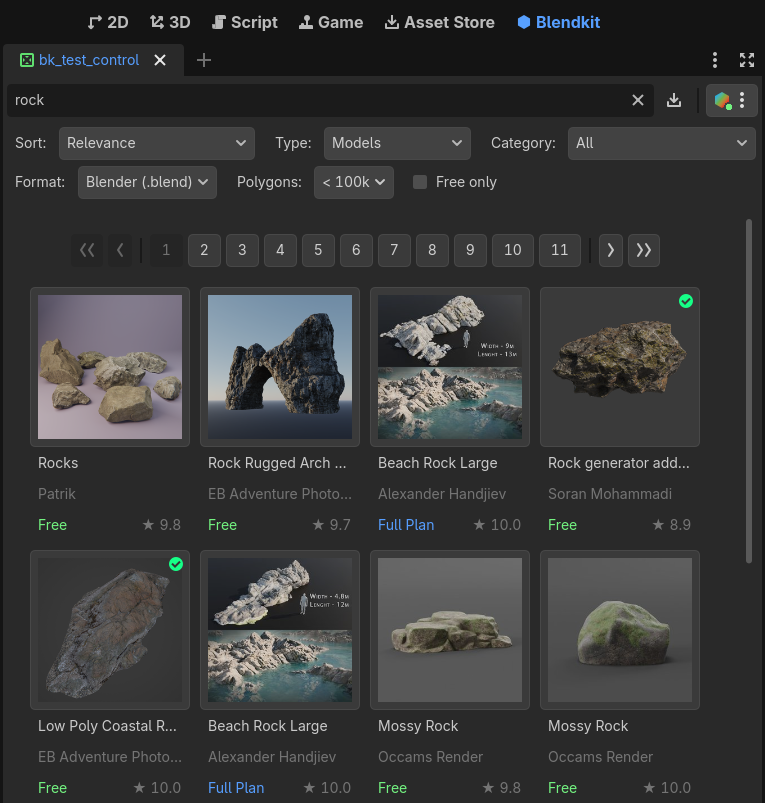
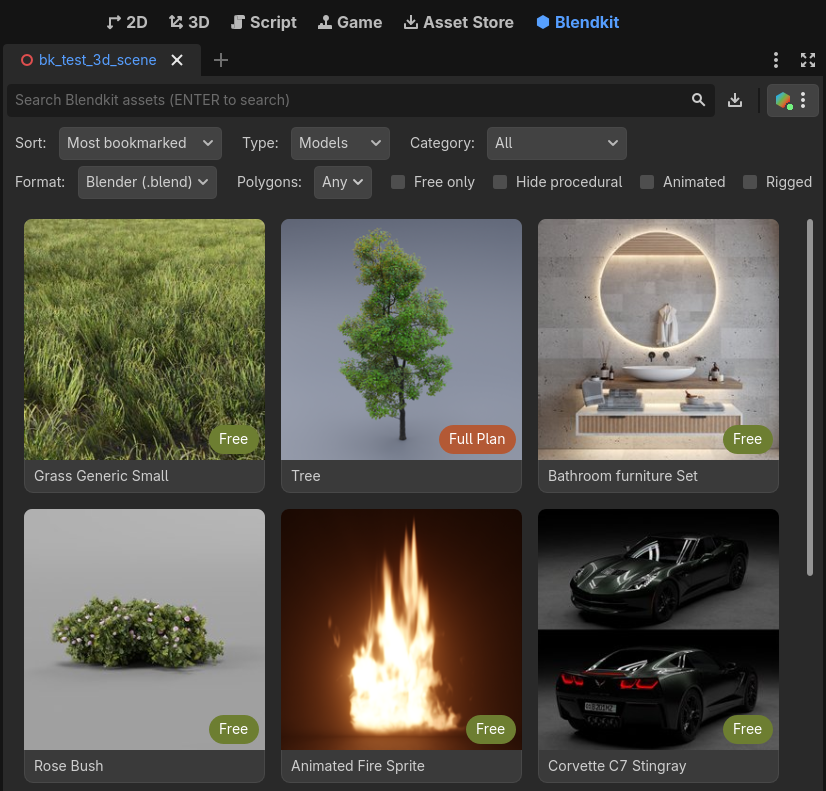
Release 0.7.1

diff --git a/README.md b/README.md
@@ -13,16 +13,13 @@
 # About
 
 Search the [Blendkit.com](https://blendkit.com) library right inside the
-Godot editor: open the **Blendkit** tab, find an asset, click **Download**, and it
-lands in your project, organized and ready to use.
+Godot editor: open the **Blendkit** workspace, find an asset, click
+**Download**, and it lands in your project, organized and ready to use.
 
 ![Blendkit in Godot](img/blendkit_in_godot.png)
 
-No web browser needed: search, details and downloads all happen in the editor.
-A browser only opens if you choose to log in.
-
-You can process the downloaded assets however you like, or build your own
-workflow / pipeline on top of them.
+Rely on Godot's native import, or build your own custom workflow on top of the
+downloaded files.
 
 See [User Guide](https://www.blendkit.com/blendkit-in-godot/) for an overview,
 screenshots, and getting started guide.
@@ -39,29 +36,24 @@ This project is Free and Open Source Software under GPLv2.
 ### alpha
 
 Fundamentals are done: building, testing, integration, distribution and
-installation work reliably. The new **Blendkit** editor tab brings decent
-usability and ergonomics. The remaining bottleneck is importing `.blend` and
-glTF files into Godot, an ongoing upstream effort.
+installation work reliably, and the **Blendkit** workspace offers decent
+usability and ergonomics. The remaining bottleneck is getting assets into
+Godot cleanly.
 
-More testing and polish is needed before reaching beta quality.
-
-As of now, please consider this software **experimental** 🧪
-
-It's a great time to test and [contribute](#contributing) so that the
-plugin is useful for you and everyone else.
-
-**IMPORTANT:** Godot Blender imports are relatively young and many `.blend` files can
-import incorrectly or not import at all with ample amount of warnings and errors
-printed to Godot Output. **Blender Import** in Blendkit **Settings** shows whether
-Godot can import `.blend` files and helps you find Blender.
-
-This plugin will get increasingly useful as native Blender -> Godot import
-improves.
+**IMPORTANT:** Godot's Blender import is relatively young, and many `.blend`
+files import incorrectly or not at all, with plenty of warnings and errors in
+the Godot Output. **Blender Import** in Blendkit **Settings** shows whether
+Godot can import `.blend` files and helps you find Blender. This plugin gets
+more useful as native Blender → Godot import improves.
 
 Set **Model Format** to **glTF (.glb)** to download glTF instead of the original
-Blender (`.blend`) file. Blendkit glTF auto-exports using Blender are by no
-means perfect, but they might work better for some assets and they don't
-require local Blender binary.
+`.blend` file. Blendkit's glTF files are exported automatically and far from
+perfect, but they work better for some assets and don't need Blender installed.
+
+More testing and polish are needed before reaching beta quality, so please
+consider this software **experimental** 🧪 for now. It's a great time to test
+and [contribute](#contributing) so that the plugin is useful for you and
+everyone else.
 
 
 ## Requirements
@@ -69,10 +61,14 @@ require local Blender binary.
 Blendkit Godot Plugin requires:
 
 - Godot Engine: **4** (**4.4+** tested in CI)
-- OS: **Linux**, **Windows**, **MacOS** (MacOS should work now but is untested,
+- OS: **Linux**, **Windows**, **macOS** (untested,
   [reports](https://github.com/BlenderKit/bk_godot/issues) welcome)
 - Architectures: **x86_64**, **arm64**
-- Web browser: only to log in, which is optional
+
+### Recommended
+
+- [Blender](https://www.blender.org/download/), the newer the better.
+  Without it, the plugin is severely limited.
 
 
 ## Installation
@@ -90,6 +86,9 @@ In **Godot 4.7** and newer, use the built-in **Asset Store** tab:
 2. Go to **Project → Project Settings... → Plugins** tab.
 3. Check **Enabled** for **Blendkit**.
 
+It takes some time for a new version to reach the store due to validation.
+You can always install the latest version manually from a ZIP archive.
+
 You can also browse the plugin on the
 [Godot Asset Store](https://store.godotengine.org/asset/blendkit/blendkit/) website.
 
@@ -105,7 +104,7 @@ Download the `blendkit-godot_vX.Y.Z.zip` archive from
 2. Open your project in **Godot Editor**, go to **Project → Project Settings... → Plugins** tab
 3. Check **Enabled** for **Blendkit**
 
-If installation succeeded, you should see a new **Blendkit** tab in the
+If installation succeeded, you should see a new **Blendkit** workspace in the
 editor's top bar (next to **Asset Store**) as well as `Blendkit:` messages in
 editor Output.
 
@@ -122,8 +121,8 @@ This avoids stale files left over from the previous version.
 ## Usage
 
 After Blendkit Godot plugin is installed and enabled in your Godot project,
-open the new **Blendkit** tab in the top bar (next to **Asset Store**) of the
-Godot Editor.
+open the new **Blendkit** workspace in the top bar (next to **Asset Store**)
+of the Godot Editor.
 
 ### Search and download
 
@@ -178,8 +177,8 @@ bk_assets
 
 ### Project assets
 
-The download toggle next to the search bar switches the **Blendkit** tab to
-the assets downloaded to this project, with a local search and
+The download toggle next to the search bar switches the **Blendkit** workspace
+to the assets downloaded to this project, with a local search and
 **Show in FileSystem**. Switch back with the toggle or **Browse Blendkit**
 below the assets.
 

diff --git a/CHANGELOG.md b/CHANGELOG.md
@@ -1,76 +1,36 @@
 # Changelog
 
-## 0.7.1 - UNRELEASED
+## 0.7.1 - 2026-10-14
+
+Most HDRs and materials now work in Godot out of the box, and the gallery
+feels more like blendkit.com, with improved UX, robustness and performance.
 
 ### Added
 
-- Gallery filters **Hide procedural** for materials and models, on for
-  materials by default, as procedural materials become a flat color in Godot,
-  and **Animated** and **Rigged** for models.
-- Clicking the author in asset details shows their assets. An **Author**
-  filter appears in the gallery filters, remove it to show all authors again.
-- **UUIDs in Names** setting for how downloads are named. **Strip**, the
-  default, leaves the UUIDs out: `models/chair/chair_gltf_godot.glb`. An asset
-  with the name of another one gets a short UUID, and a newer version of an
-  asset replaces the older one in its folder, so scenes using it keep working.
-  **Short** keeps 8 characters of the UUIDs, **Full** all of them, as before.
-  A hidden `.blendkit` file in each asset folder says which asset it is.
-- HDRs import in Godot: Blender re-saves their lossy DWAA-compressed EXRs,
-  which Godot can't read, as lossless ZIP-compressed EXRs before they move
-  into the project. It uses the Blender set up for Blender Import, or one
-  found on this computer. Without Blender, the original file is kept, unless
-  a converted one was downloaded before, which stays.
-- Materials download as Godot materials: Blender turns the material `.blend`,
-  which Godot imports as an empty scene, into a `StandardMaterial3D` `.tres`
-  with its textures in `textures_<resolution>/` next to it, and the `.blend`
-  is deleted. With the texture's real size known, the material maps it
-  triplanar at that size, so it fits any mesh, e.g. a CSG box. Turning
-  triplanar off uses the mesh's UVs, and the height map is there to turn on,
-  as Godot has none with triplanar mapping. Procedural materials
-  become a flat color. Without Blender, the `.blend` is kept, unless the
-  material was converted before, which stays with its textures. The textures
-  come with their 3D import settings, so Godot imports them once, with the
-  roughness map limited by the normal map.
+- Materials download as ready-to-use Godot materials that fit any mesh, and
+  HDRs as EXRs Godot can read. Both need Blender, which is found
+  automatically.
+- Clean download names without UUIDs, e.g. `models/chair/chair_gltf_godot.glb`.
+  Newer versions replace older ones, so scenes keep working.
+- **Hide procedural**, **Animated** and **Rigged** filters.
+- Click an author in asset details to see all their assets.
+- Asset details show the formats already downloaded, and **Show File**
+  reveals them.
 
 ### Changed
 
-- Search results load more as they scroll, like in the Blender add-on and on
-  blendkit.com, instead of pages with page buttons. If the next page fails to
-  load, the results stay and **Retry** shows below them.
-- Asset details follow the blendkit.com layout: a bigger title with the asset
-  type above it, the description under the preview, and one column of
-  properties with score, quality and complexity and their icons, file size,
-  license and date. Animated, Rigged and Procedural show only when they apply.
-  Long descriptions scroll. The tags are a comma-separated list.
-- Asset details open at their final size, without a jump in the first frame.
-- The gallery **Sort** options match blendkit.com: Relevance, Trending, Most
-  bookmarked, Highest asset score, Highest complexity, Highest quality and
-  Newest.
-
-- Asset details list the formats already downloaded to the project, marked
-  with a check. **Show File** shows the selected downloaded file, in the
-  FileSystem dock if Godot imports it, otherwise in the file manager. The
-  other formats can still be downloaded. In the FileSystem dock, the Blendkit
-  logo briefly points at the file.
-- Asset details opened from project assets look the asset up on blendkit.com
-  to offer the formats not downloaded yet. Offline, they show the downloaded
-  ones.
-- The file selector in asset details sits before the button it applies to.
-- Plans show in the Blendkit colors, the same in every editor theme: Free and
-  Full Plan badges in the corner of the previews in the gallery and in asset
-  details, like on blendkit.com, an orange **Get Full Plan…** button, and a
-  star in the plan's color next to your plan in the Blendkit menu, including
-  Business Plan.
+- Search results load more as you scroll, replacing the page buttons.
+- Asset details and **Sort** options match blendkit.com.
+- Plans show in the Blendkit colors, with Free and Full Plan badges on the
+  previews.
+- The gallery is faster: thumbnails decode as needed, and downloads share
+  editor rescans.
 
 ### Fixed
 
-- Project assets support several downloaded formats per asset, e.g. glTF and
-  .blend, instead of showing only the newest file.
-- Project assets no longer pick textures Godot extracts from a .glb, such as
-  .png or .webp, as the asset file.
-- Downloading an asset whose files changed on Blendkit since the search no
-  longer fails with a 404. The gallery looks the asset up again and retries
-  once with its new files.
+- Projects can hold several formats of one asset, e.g. glTF and .blend.
+- Downloads no longer fail with a 404 when the asset has been updated on
+  Blendkit since the search.
 
 ## 0.7.0 - 2026-10-12
 
